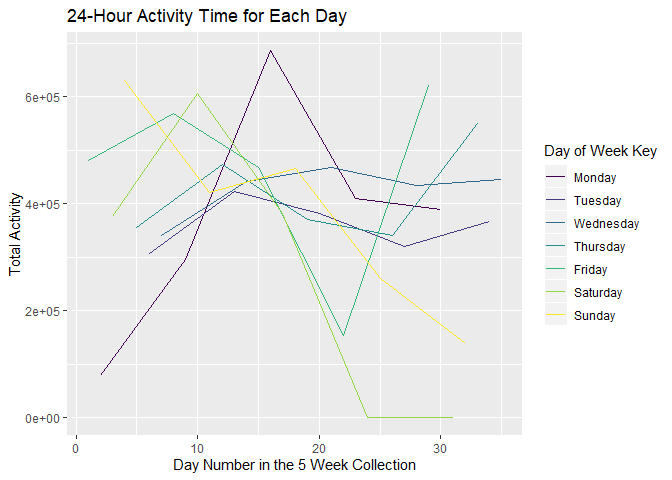
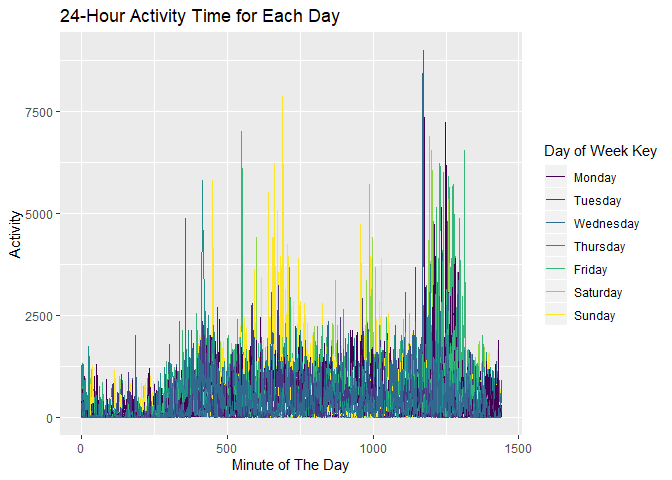
I think I fixed the plot and found a trend. Calling it a night.

diff --git a/p8105_hw3_mrc2229_2.md b/p8105_hw3_mrc2229_2.md
@@ -288,21 +288,23 @@ Based on this table there are no trends that jump out at first glance.
 
 ``` r
 day_activity_plot=accel_data %>%
-  group_by(day_id, day) %>%
-  summarise("total_activity_for_day" = sum(activity_count)) %>%
-  mutate(day = fct_relevel(day,  "Monday", "Tuesday", "Wednesday", "Thursday", "Friday", "Saturday","Sunday")) %>%
-  ggplot(aes(x=day_id,y=total_activity_for_day))+
-  geom_line(aes(group=day, color=day))+
+  mutate(day = fct_relevel(day, "Monday", "Tuesday", "Wednesday", "Thursday", "Friday", "Saturday", "Sunday")) %>%
+  group_by(day_id, day, activity_minute) %>%
+  ggplot(aes(x=activity_minute,y=activity_count))+
+  geom_line(aes(group=day_id, color=day))+
   scale_color_viridis(
     discrete = TRUE,
     name = "Day of Week Key"
   )+
   labs(
     title = "24-Hour Activity Time for Each Day",
-    x = "Day Number in the 5 Week Collection",
-    y ="Total Activity"
+    x = "Minute of The Day",
+    y ="Activity"
   )
+
 day_activity_plot
 ```
 
 ![](p8105_hw3_mrc2229_2_files/figure-markdown_github/unnamed-chunk-11-1.png)
+
+It appears that activity is typically higher from about the 600th to 750th minute on Sundays and from about the 1200th to 1300th minute on Fridays and Saturdays. Very late at night (after the 1400th minute) and early mornings (from the 0th minute to the 300th minute) seem to have the lowest activity.
